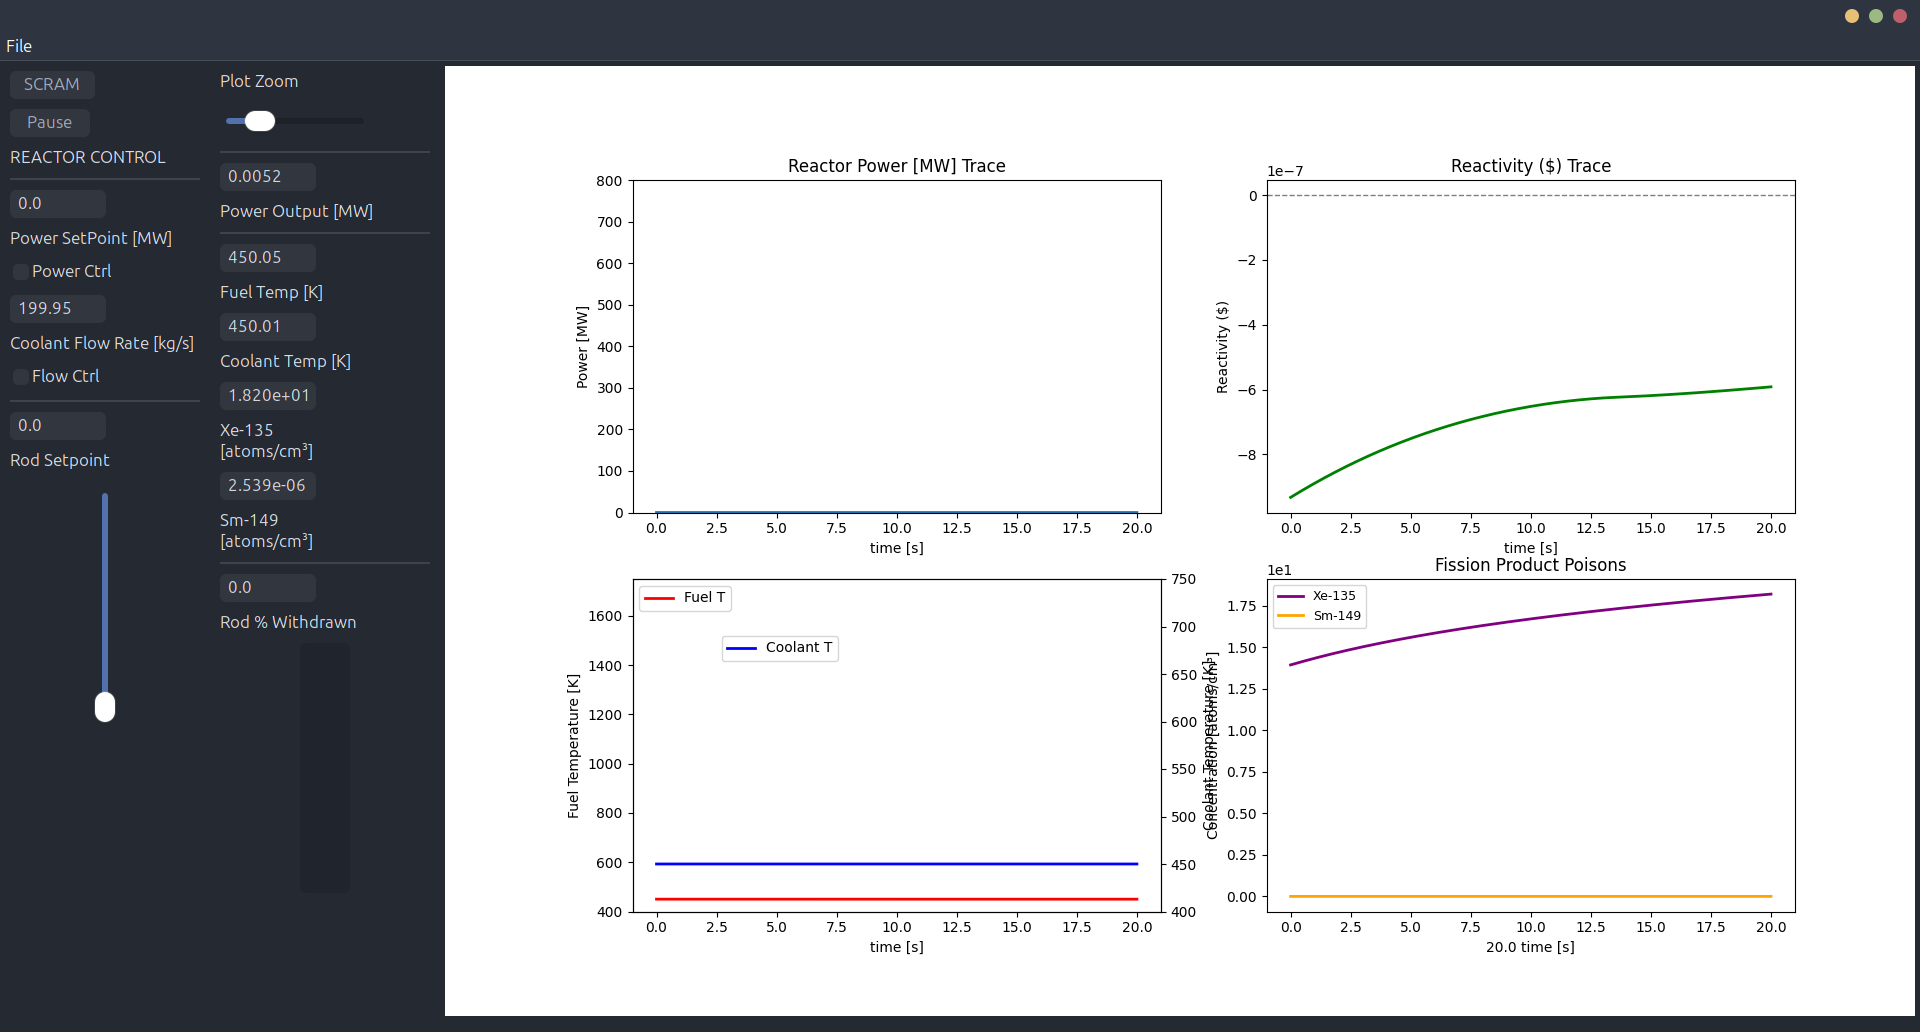
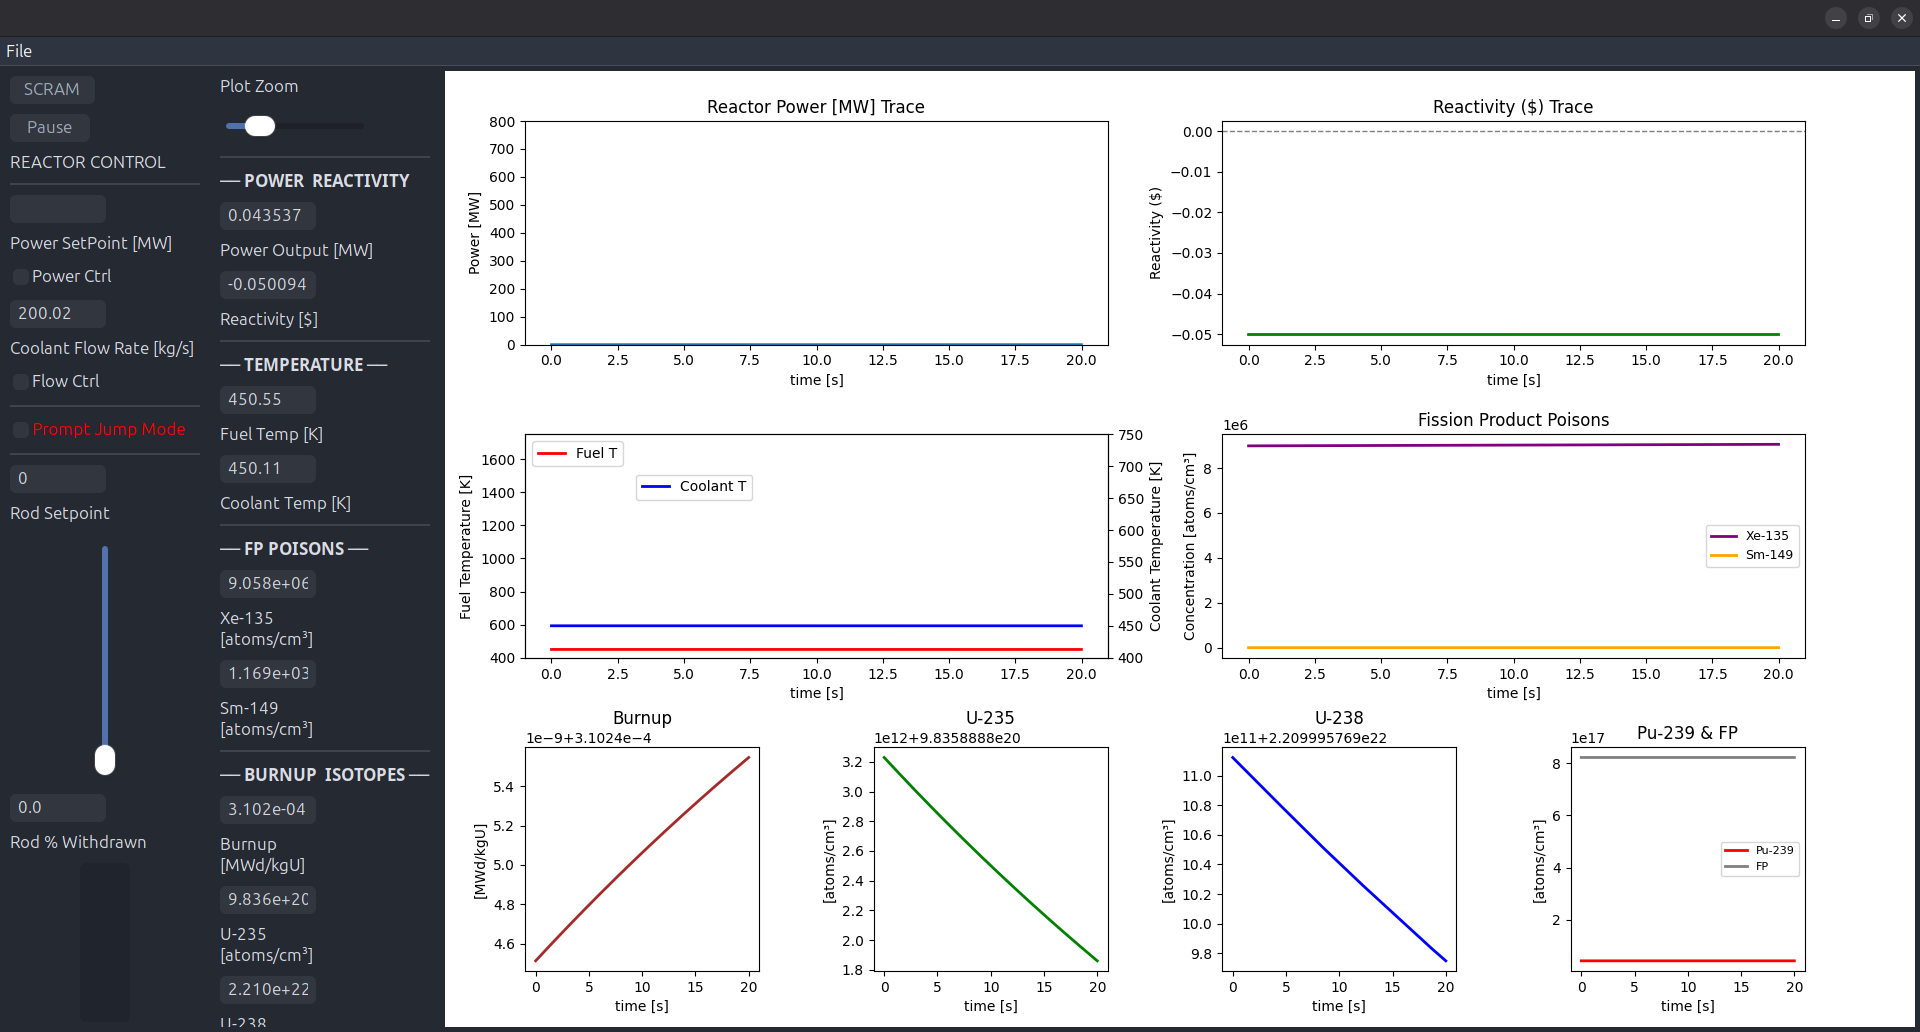
Updated Readme with the new GUI

diff --git a/README.md b/README.md
@@ -14,6 +14,7 @@ DUNE is an advanced point kinetics nuclear reactor simulator with a graphical us
 - **Manual Coolant Control Mode**: User-controlled coolant flow rate with independent operation
 - **Control Systems**: Supports both manual control rod operation and automatic PID-based power control
 - **Safety Systems**: Automatic SCRAM functionality based on temperature setpoints
+- **Burnup & Isotope Depletion**: Continuous Burnup with effect on reactivity.
 - **Arduino Integration**: Interfaces with physical 3D printed reactor model for hands-on demonstrations
 - **CSV Data Logging**: Automatic timestamped data logging including poison concentrations
 - **Educational Tool**: Designed for nuclear engineering education
@@ -213,23 +214,25 @@ The DUNE simulator features a comprehensive full-screen interface with eight syn
 
 The main interface shows eight synchronized plots arranged in a 3-row grid layout:
 
-**Top Row (Full Width):**
+**Top Row (2 Panels):**
 - **Power Plot**: Real-time thermal power output (MW) vs time
   - Shows exponential rise during startup, steady-state operation, and decay during shutdown
-
-**Middle Row (3 Panels):**
 - **Reactivity Plot**: Total reactivity ($) vs time showing all feedback contributions
   - Displays contributions from control rods, temperature feedback, poison effects, and burnup
-- **Fuel Temperature Plot**: Fuel temperature (K) vs time (red)
-  - Demonstrates thermal inertia and Doppler feedback effects
-- **Coolant Temperature Plot**: Coolant temperature (K) vs time (blue)
-  - Shows heat transfer dynamics and flow rate effects
 
-**Bottom Row (4 Panels):**
-- **Xenon-135 Plot**: Xe-135 concentration (atoms/cm³) vs time (purple)
+**Middle Row (2 Panels):**
+- **Fuel & Coolant Temperature Plot**: 
+  - Fuel temperature (K) vs time (red)
+  - Demonstrates thermal inertia and Doppler feedback effects
+  - Coolant temperature (K) vs time (blue)
+  - Shows heat transfer dynamics and flow rate effects
+- **Xenon-135 & Samarium-149 Plot**: 
+  - Xe-135 concentration (atoms/cm³) vs time (purple)
   - Tracks transient fission product poison buildup and decay
-- **Samarium-149 Plot**: Sm-149 concentration (atoms/cm³) vs time (orange)
+  - Sm-149 concentration (atoms/cm³) vs time (orange)
   - Shows slow equilibrium poison accumulation
+
+**Bottom Row (4 Panels)**:
 - **Burnup Plot**: Core average burnup (MWd/kgU) vs time
   - Tracks cumulative fuel depletion over operation
 - **Isotope Plot**: Relative concentrations of U-235, U-238, Pu-239, and fission products
@@ -241,12 +244,33 @@ The main interface shows eight synchronized plots arranged in a 3-row grid layou
 - Real-time numerical displays for all critical parameters
 - Synchronized x-axis across all plots for correlation analysis
 
+### Control Panel Section
+![Control Panel](Media/Images/Control%20Panel.png)
+- SCARM Button for manual SCARM
+- Pause Button for pause the simulation
+- Power Ctrl for manual power control
+- Flow Ctrl for manually control the flow rate
+- Prompt Jump Mode for analysing the prompt jump scenario
+- Rod SetPoint Slider for manual rod position control
+- Rod % Withdrawn shows the current rod position
+
+### Observation Panel Section
+![Observation panel](Media/Images/Graph%20Value%20panel.png)
+- Plot Zoom for changing the x-axix time scale for better understanding of transient 
+- And the below boxes are showing the exact value of different parameters in the graphs
+
 ### Manual Power Control Mode
-![Power Control Mode](Media/Images/Power%20Control%20Mode.png)
+**Initial Condition before activating the Power Control Mode:**
+![Power Control Mode initial](Media/Images/Power%20Control%20Mode%20Before%20Before.png)
+**After activating the Power Control Mode for a targeted power:**
+![Power Control Mode After](Media/Images/Power%20Control%20Mode%20After.png)
 Autometically adjust the control rod position through PID controller to achieve the targeted power level.
 
 ### Manual Flow Control Mode
-![Flow Control Mode](Media/Images/Flow%20Control%20Mode.png)
+**Initial Condition before activating the Flow Control Mode:**
+![Flow Control Mode before](Media/Images/Flow%20Control%20Mode%20Before.png)
+**After activating the Flow Control Mode and Changing the Flow rate:**
+![Flow Control Mode After](Media/Images/Flow%20Control%20Mode%20After.png)
 
 Independent coolant flow control enables investigation of thermal-hydraulic effects decoupled from automatic power-based control.
 
@@ -256,14 +280,14 @@ Independent coolant flow control enables investigation of thermal-hydraulic effe
 This image demonstrates a typical reactor startup sequence showing exponential power rise as control rods are withdrawn. The behavior follows the reactor period equation demonstrating subcritical to critical transition.
 
 ### Prompt Jump Phenomenon
-![Reactor Prompt Jump Transient](Media/Images/Reactor%20Transient(Prompt%20Jump).png)
+![Reactor Prompt Jump Transient](Media/Images/Prompt%20Jump.png)
 
-This captures a reactivity insertion accident resulting in a prompt jump. When reactivity exceeds one dollar ($ρ > $1.00), the reactor becomes prompt critical, causing an instantaneous power jump followed by temperature feedback stabilization.
+This captures a reactivity insertion accident resulting in a prompt jump. When we activate the Prompt jump Mode, a reactivity of 0.003$ is being inserted instantly, causing an instantaneous power jump followed by temperature feedback stabilization.
 
 ### SCRAM Event
 ![Reactor SCRAM Event](Media/Images/Reactor%20SCARM.png)
 
-Documentation of an automatic SCRAM (Safety Control Rod Axe Man) event triggered by exceeding temperature safety limits. Shows rapid power decrease as control rods are fully inserted and negative reactivity is added.
+Here the SCARM is triggred by the manual SCARM button. Shows rapid power decrease as control rods are fully inserted and negative reactivity is added. An automatic SCRAM (Safety Control Rod Axe Man) event can be also triggered by exceeding temperature safety limits.
 
 ### Xenon and Samarium Poisoning
 ![Xenon and Samarium Concentrations](Media/Images/Xenon%20%26%20Samarium%20Poison%20Graph.png)
@@ -272,6 +296,11 @@ Long-term simulation showing fission product poison buildup:
 - **Xenon-135**: Reaches equilibrium in ~40-50 hours with characteristic oscillations
 - **Samarium-149**: Builds slowly over days, approaching stable equilibrium
 - Both poisons insert negative reactivity requiring compensating rod withdrawal
+
+### Burnup & Isptope Depletion
+![Burnup and Isotope Depletion](Media/Images/Burnup%20&%20Isotope%20Depletion.png)
+
+Shows the Continuous Burnup of fuel and the continuous change in concentration of the nuclides due to Burnup.
 
 ## Video Demonstrations
 
